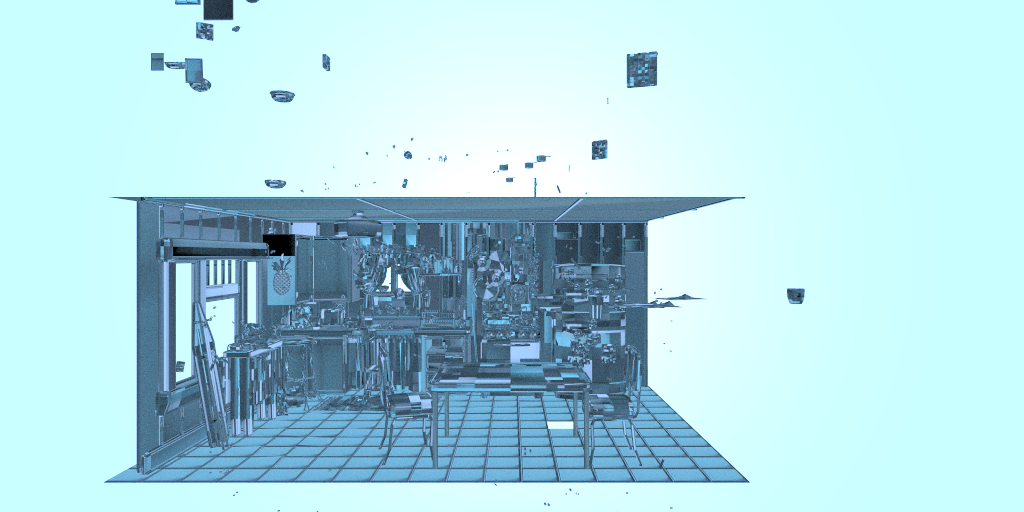
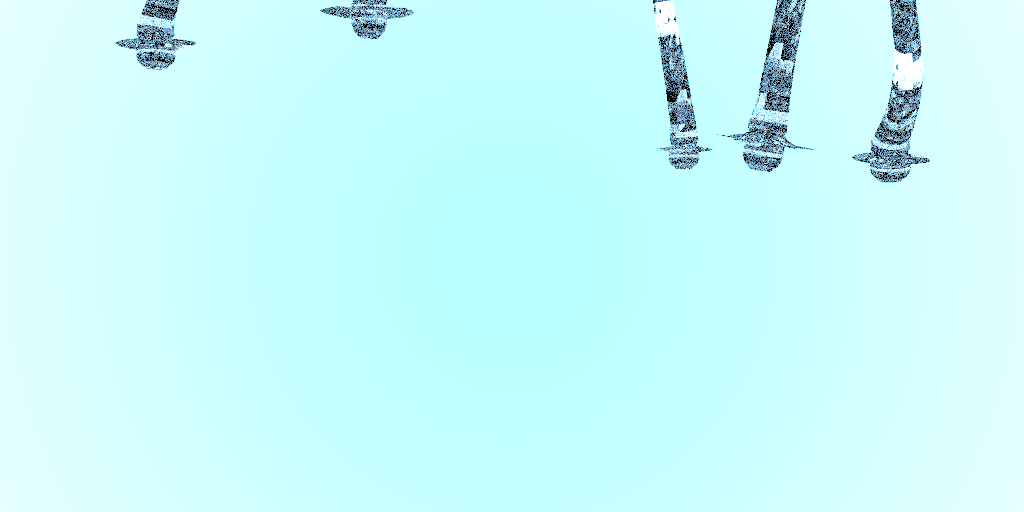
Backup

diff --git a/src/hydra/file_reader.cpp b/src/hydra/file_reader.cpp
@@ -177,10 +177,13 @@ void updateXform(glm::mat4 &xform, UsdGeomXform const &xformPrim)
   xform *= M;
 }
 
+const std::string cameraName = "/island/cam/shotCam";
+
 void traverseUsd(ccl::Scene *scene, UsdPrim const &prim, glm::mat4 xform, Node *meshShader)
 {
-  std::cout << prim.GetPath().GetAsString() << ": " << prim.GetTypeName().GetString() << std::endl;
-  if (prim.IsA<UsdGeomCamera>()) {
+  // std::cout << prim.GetPath().GetAsString() << ": " << prim.GetTypeName().GetString() <<
+  // std::endl;
+  if (prim.IsA<UsdGeomCamera>() && prim.GetPath().GetAsString() == cameraName) {
     HdCyclesCamera camera(prim.GetPath());
     std::cout << "Camera: " << prim.GetPath().GetAsString().c_str() << std::endl;
     camera.ApplyCameraSettings(nullptr, scene->camera);
@@ -195,7 +198,7 @@ void traverseUsd(ccl::Scene *scene, UsdPrim const &prim, glm::mat4 xform, Node *
   }
   else if (prim.GetTypeName().size() > 0) {
     std::cerr << "Unsupported USD node type: " << prim.GetTypeName() << std::endl;
-    std::exit(1);
+    // std::exit(1);
   }
 
   for (const auto &child : prim.GetChildren()) {
@@ -246,9 +249,9 @@ void initBaseScene(Scene *scene)
 void convertFromUSD(ccl::Scene *scene, UsdStageRefPtr stage)
 {
   initBaseScene(scene);
-  glm::mat4 baseUsdTransform = glm::scale(
-      glm::rotate(glm::mat4(0.01f), static_cast<float>(M_PI / 2.f), glm::vec3(1, 0, 0)),
-      glm::vec3(1, 1, -1));
+  glm::mat4 baseUsdTransform = glm::mat4(1); /*glm::scale(
+       glm::rotate(glm::mat4(0.01f), static_cast<float>(M_PI / 2.f), glm::vec3(1, 0, 0)),
+       glm::vec3(1, 1, -1));*/
   traverseUsd(scene, stage->GetPseudoRoot(), baseUsdTransform, scene->default_surface);
 }
 

diff --git a/src/hydra/camera.cpp b/src/hydra/camera.cpp
@@ -261,7 +261,10 @@ void HdCyclesCamera::ApplyCameraSettings(HdRenderParam *renderParam, Camera *cam
 {
   ApplyCameraSettings(renderParam, _data, _windowPolicy, cam);
 
-  const float metersPerUnit = static_cast<HdCyclesSession *>(renderParam)->GetStageMetersPerUnit();
+  const float metersPerUnit =
+      (renderParam == nullptr) ?
+          0.01f :
+          static_cast<HdCyclesSession *>(renderParam)->GetStageMetersPerUnit();
 
   array<Transform> motion(_transformSamples.count);
   for (size_t i = 0; i < _transformSamples.count; ++i) {
